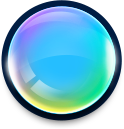
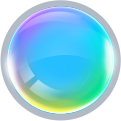
qietu

diff --git a/src/css/index.less b/src/css/index.less
@@ -29,6 +29,16 @@ body{
 		.rem(height, 1065rem);
 		background:url('/img/big_circle.png') 0 0 no-repeat;
 		background-size: 100% 100%;
+		.big-ball{
+			.rem(width, 121rem);
+			.rem(height, 121rem);
+			background:url('/img/big_ball.png') 0 0 no-repeat;
+			background-size:100% 100%;
+			position: absolute;
+			left:50%;
+			.rem(margin-left, -60rem);
+			.rem(top, 45rem);
+		}
 	}
 	.big-circle-high{
 		position: absolute;
@@ -49,6 +59,16 @@ body{
 		.rem(height, 709rem);
 		background:url('/img/mid_circle.png') 0 0 no-repeat;
 		background-size: 100% 100%;
+		.mid-ball{
+			.rem(width, 108rem);
+			.rem(height, 107rem);
+			background:url('/img/mid_ball.png') 0 0 no-repeat;
+			background-size:100% 100%;
+			position: absolute;
+			left:50%;
+			.rem(margin-left, -54rem);
+			.rem(top, 15rem);
+		}
 	}
 	.mid-circle-high{
 		position: absolute;
@@ -69,6 +89,16 @@ body{
 		.rem(height, 459rem);
 		background:url('/img/small_circle.png') 0 0 no-repeat;
 		background-size: 100% 100%;
+		.small-ball{
+			.rem(width, 92rem);
+			.rem(height, 92rem);
+			background:url('/img/mid_ball.png') 0 0 no-repeat;
+			background-size:100% 100%;
+			position: absolute;
+			left:50%;
+			.rem(margin-left, -46rem);
+			.rem(top, 30rem);
+		}
 	}
 	.small-circle-high{
 		position: absolute;
@@ -90,6 +120,17 @@ body{
 		background:url('/img/search.png') 0 0 no-repeat;
 		background-size: 100% 100%;
 	}
+	.light{
+		position: absolute;
+		left:50%;
+		top:0;
+		transform: translate(-50%, 0);
+		.rem(width, 426rem);
+		.rem(height, 537rem);
+		background:url('/img/light.png') 0 0 no-repeat;
+		background-size:100% 100%;
+		opacity: .7;
+	}
 }
 .shutdown{
 	position: absolute;
@@ -105,14 +146,8 @@ body{
 	left:50%;
 	transform:translate(-50%,0);
 	.rem(bottom, 200rem);
-	.rem(width, 252rem);
+	.rem(width, 247rem);
 	.rem(height, 78rem);
-	text-align: center;
-	.rem(line-height, 78rem);
-	border-radius: 39px;
-	background: #00FFFF;
-	color:#000;
-	font-family: "微软雅黑";
-	font-size:32px;
-	font-weight: bold;
+	background: url('/img/go_find.png') 0 0 no-repeat;
+	background-size:100% 100%;
 }

diff --git a/src/index.html b/src/index.html
@@ -18,16 +18,23 @@
 		<p class="logo-title"><img src="/img/logo_title.png" /></p>
 	</div>
 	<div class="dial">
-		<div class="big-circle"></div>
+		<div class="big-circle">
+			<div class="big-ball"></div>
+		</div>
 		<div class="big-circle-high"></div>
-		<div class="mid-circle"></div>
+		<div class="mid-circle">
+			<div class="mid-ball"></div>
+		</div>
 		<div class="mid-circle-high"></div>
-		<div class="small-circle"></div>
+		<div class="small-circle">
+			<div class="small-ball"></div>
+		</div>
 		<div class="small-circle-high"></div>
+		<div class="light"></div>
 		<div class="search"></div>
 	</div>
 	<div class="shutdown"></div>
-	<div class="go-find">先去逛逛</div>
+	<div class="go-find"></div>
  	<script>require.resourceMap(__RESOURCE_MAP__)</script>
     <!--SCRIPT_PLACEHOLDER-->
 	<script>
